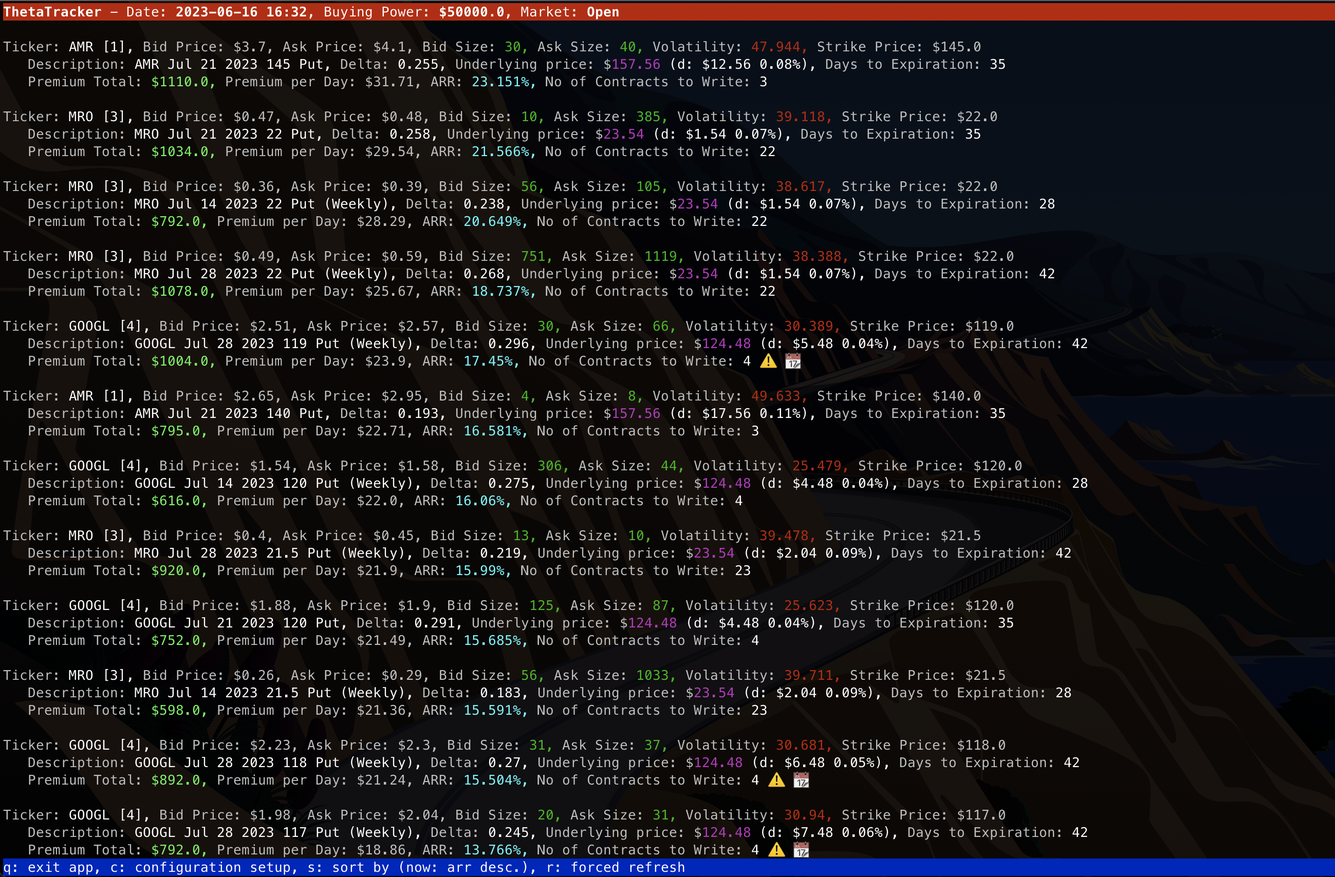
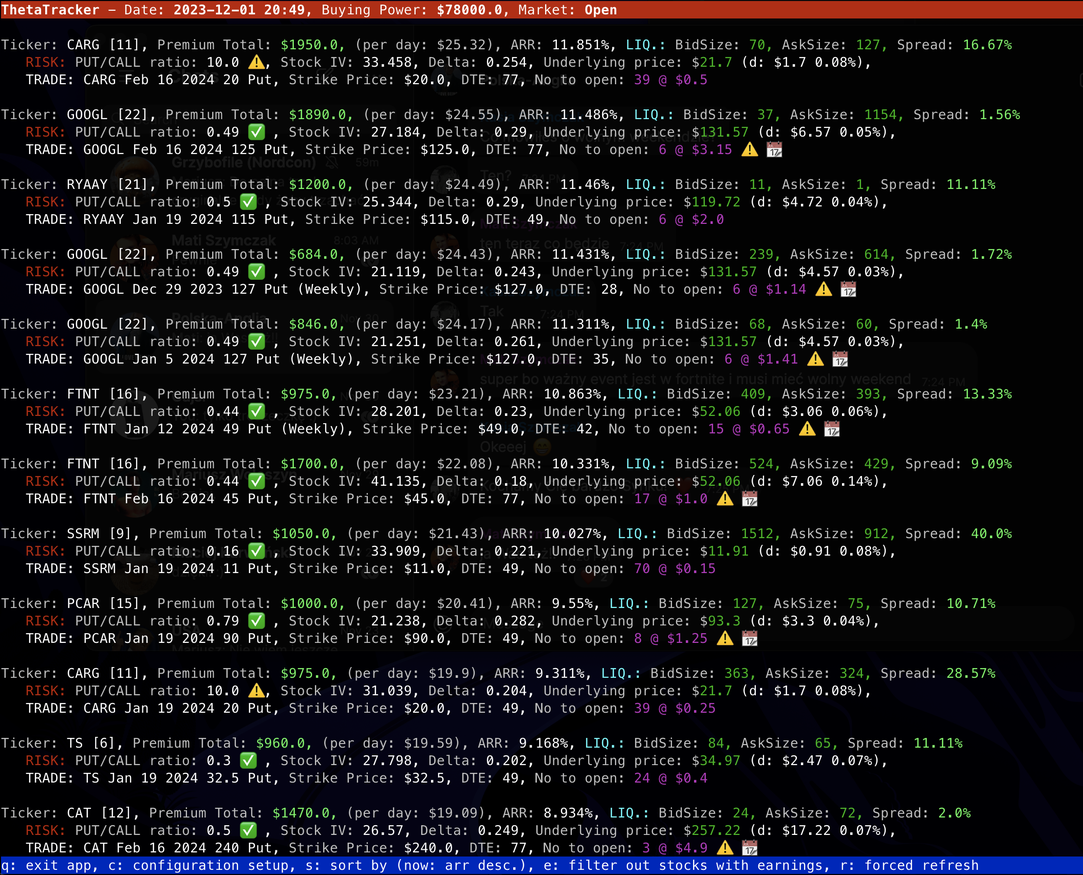
added indication of error while fetching earning_date

diff --git a/data_fetch.py b/data_fetch.py
@@ -84,6 +84,8 @@ def handle_api_error(ticker):
 
 def fetch_option_for_ticker(api_key, ticker, line_number, from_date, to_date, max_delta, buying_power, sorting_method,
                        finnhub_api_key):
+    earnings_data_retrieved = False
+
     try:
         endpoint = f"https://api.tdameritrade.com/v1/marketdata/chains?apikey={api_key}&symbol={ticker}&strikeCount={STRIKE_COUNT_LIMIT}&includeQuotes=TRUE&fromDate={from_date.strftime('%Y-%m-%d')}&toDate={to_date.strftime('%Y-%m-%d')}"
         data = make_api_request(api_key, endpoint)
@@ -117,6 +119,7 @@ def fetch_option_for_ticker(api_key, ticker, line_number, from_date, to_date, ma
             if response.status_code == 200 and response.text:
                 earnings_data = response.json()
                 has_earnings = earnings_data.get('earningsCalendar', []) != []
+                earnings_data_retrieved = True
             else:
                 logging.error(
                     f"Error: Unable to fetch earnings data for {ticker}. HTTP status code: {response.status_code}")
@@ -126,6 +129,7 @@ def fetch_option_for_ticker(api_key, ticker, line_number, from_date, to_date, ma
                 option["ticker"] = ticker
                 option["line_number"] = line_number
                 option["has_earnings"] = has_earnings
+                option["earnings_data_retrieved"] = earnings_data_retrieved
                 option["underlying_iv"] = option['volatility']
         return options
 

diff --git a/main.py b/main.py
@@ -61,7 +61,8 @@ def format_option(option):
         ('bright white', f"{option['daysToExpiration']}, "),
         ('default', f"No to open: "),
         ('bright purple', f"{option['no_of_contracts_to_write']} @ ${option['bid']}"),
-        ('default', " ⚠  📆") if option["has_earnings"] else ('default', '')
+        ('default', "⚠ 📆") if option["has_earnings"] else ('default', "📵 📆") if not option["earnings_data_retrieved"] else (
+        'default', '')
     ])
 
     return urwid.Pile([row1, row2, row3])
